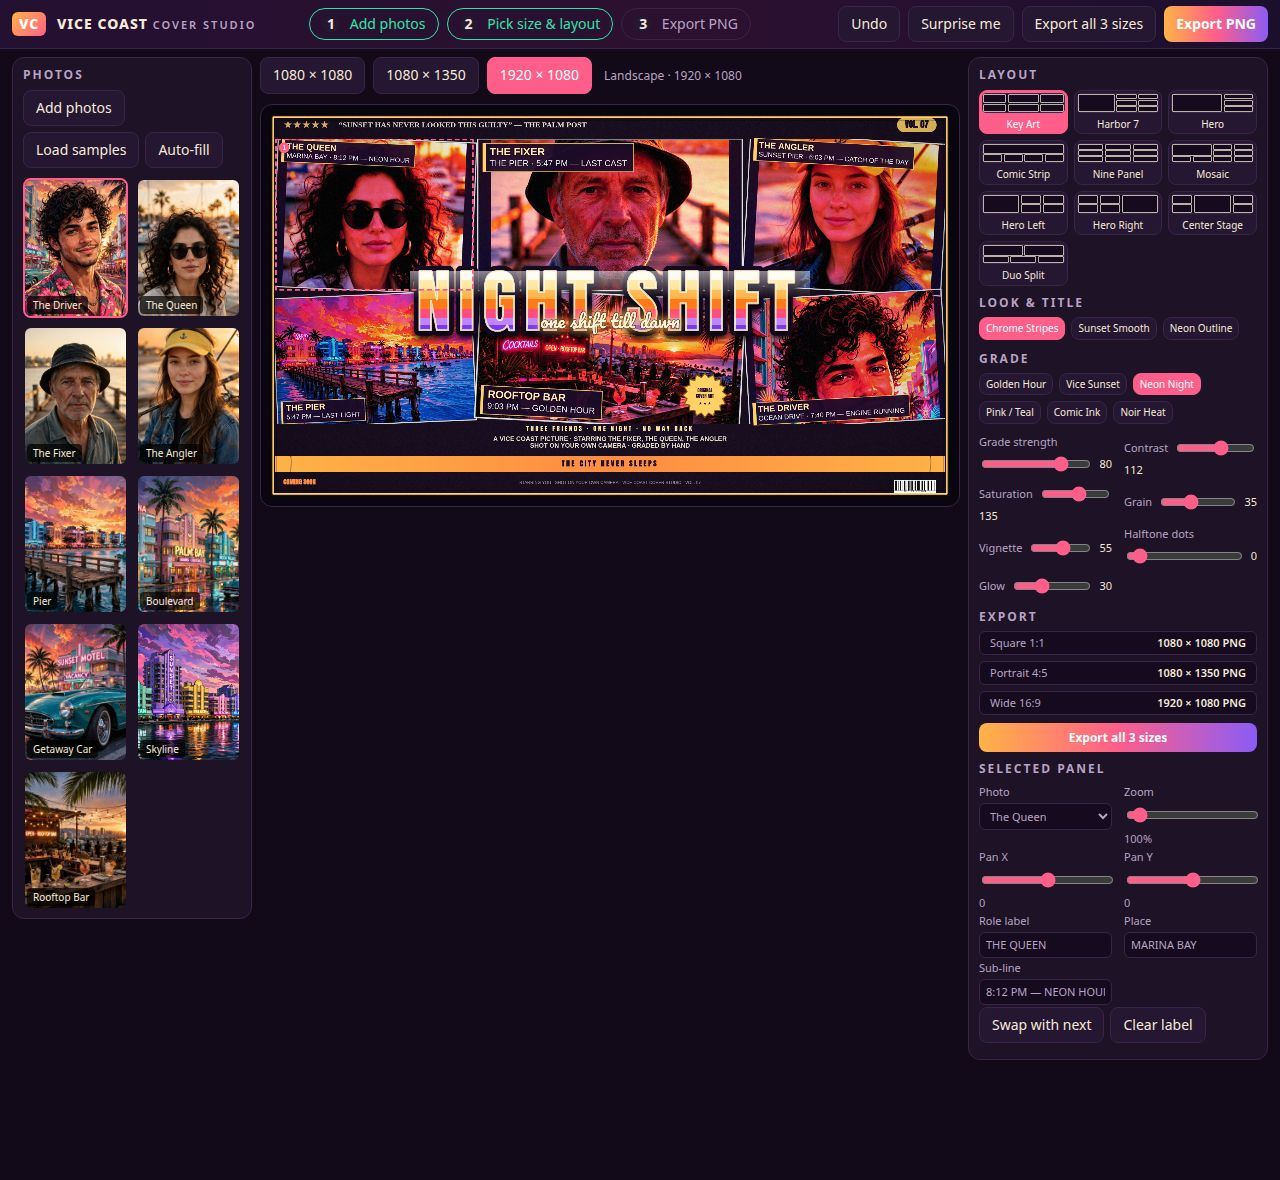
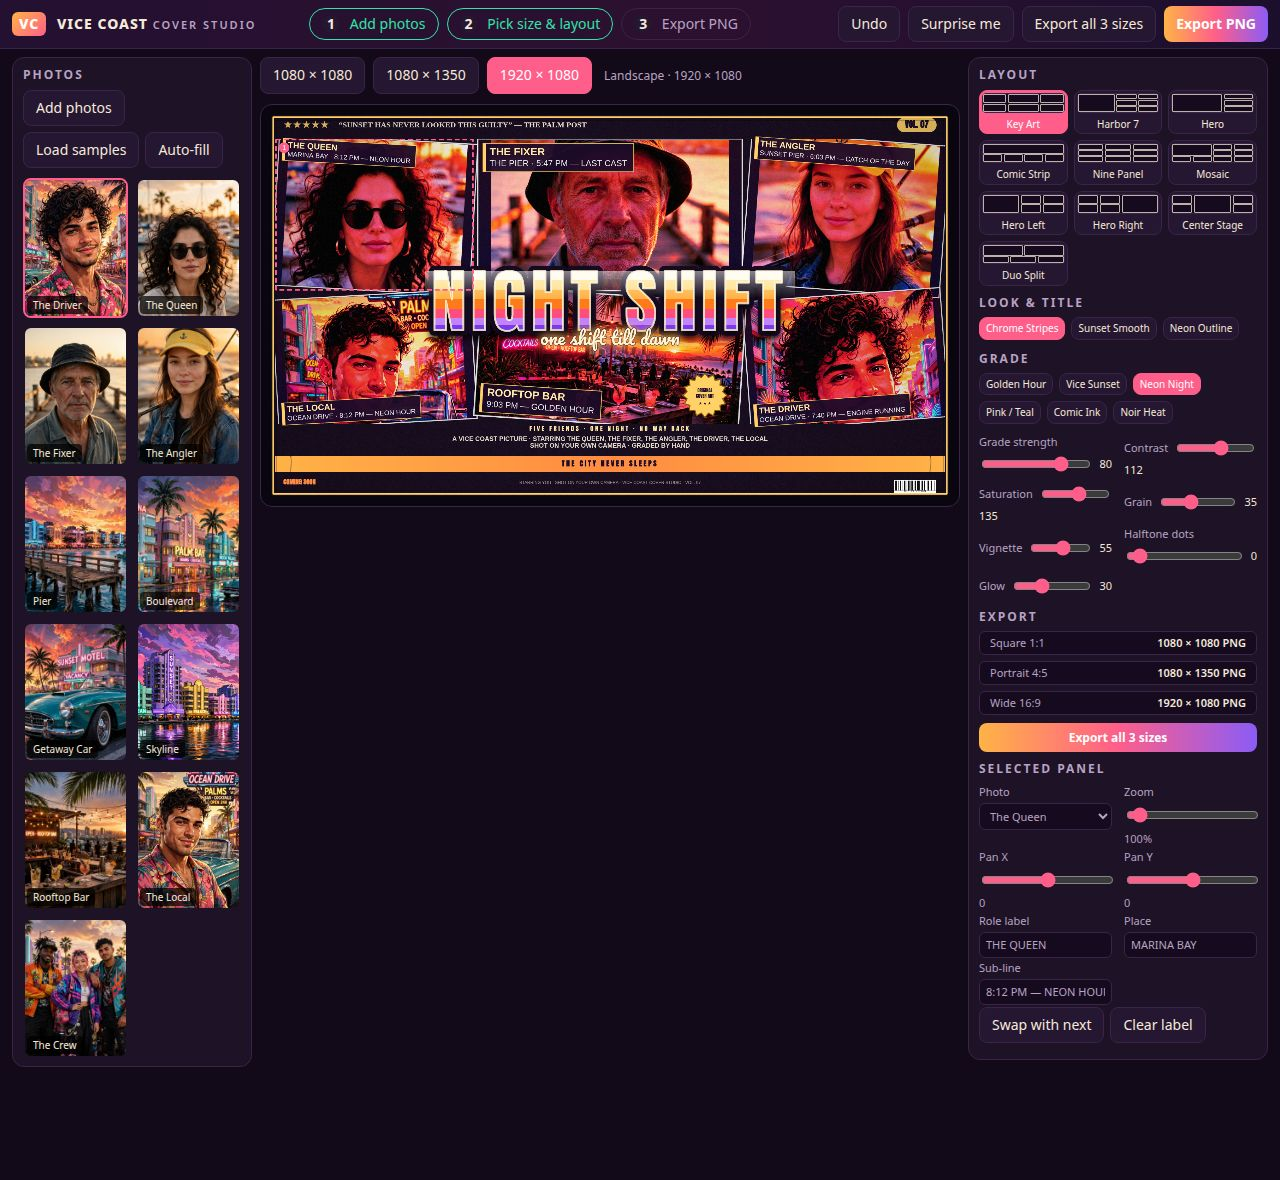
gta6-cover-art-01 v7: five cast portraits incl. The Local; magenta counterweight tint + wider tilt; tighter title tracking, script below headline

Changed region(s): [[0.1875, 0.122, 0.75, 0.3966], [0.0, 0.6407, 0.1875, 0.9153], [0.5625, 0.0915, 0.75, 0.1525]]

diff --git a/app/src/cover.js b/app/src/cover.js
@@ -257,7 +257,7 @@ function drawPhotoInto(ctx, img, x, y, w, h, zoom, panX, panY, faceY, faceAt) {
   ctx.drawImage(img, dx, dy, dw, dh);
 }
 
-function drawPanel(ctx, rect, photo, grade, sliders) {
+function drawPanel(ctx, rect, photo, grade, sliders, tint) {
   const { x, y, w, h } = rect;
   // v4: the photo fills the WHOLE panel. The caption lives in a compact
   // chip at a panel corner (drawChip, second pass) — not in a strip below
@@ -287,6 +287,22 @@ function drawPanel(ctx, rect, photo, grade, sliders) {
     ctx.fillRect(x, y, w, photoH);
     ctx.globalCompositeOperation = 'source-over';
     ctx.globalAlpha = 1;
+    // v7: per-panel counterweight tint — when tint is set, a magenta
+    // wash (clear at the top, 0.20 at the bottom, overlay blend, alpha
+    // scaled by grade strength s) so the grade varies panel to panel
+    // instead of reading as one flat golden-orange. Golden-hour stays
+    // dominant: the wash is a counterweight, not a second grade.
+    if (tint) {
+      const tgrad = ctx.createLinearGradient(x, y, x, y + h);
+      tgrad.addColorStop(0, 'rgba(255,46,136,0)');
+      tgrad.addColorStop(1, 'rgba(255,46,136,0.20)');
+      ctx.globalCompositeOperation = 'overlay';
+      ctx.globalAlpha = s;
+      ctx.fillStyle = tgrad;
+      ctx.fillRect(x, y, w, photoH);
+      ctx.globalCompositeOperation = 'source-over';
+      ctx.globalAlpha = 1;
+    }
   } else {
     const grad = ctx.createLinearGradient(x, y, x, y + photoH);
     grad.addColorStop(0, '#3b1d4e');
@@ -448,13 +464,14 @@ function drawChromeTitle(ctx, text, cx, baselineY, maxW, startPx, style, glow, t
   ctx.lineJoin = 'round';
   // Stretch with letter-spacing to the target width (r1's title has
   // wide tracking): a tall title would swallow the bottom row, so the
-  // span comes from tracking, not height. Capped at 0.12em so the
-  // letters never look disconnected. measureText accounts for the
+  // span comes from tracking, not height. Capped at 0.08em (v7: the
+  // old 0.12em cap read as wide, disconnected kerning) so the letters
+  // never look disconnected. measureText accounts for the
   // spacing in Chrome, so the re-measure below is the real width.
   let spacing = 0;
   if (targetW) {
     const w0 = ctx.measureText(text).width;
-    spacing = Math.max(0, Math.min(px * 0.12, (targetW - w0) / Math.max(1, text.length - 1)));
+    spacing = Math.max(0, Math.min(px * 0.08, (targetW - w0) / Math.max(1, text.length - 1)));
     try { ctx.letterSpacing = `${spacing}px`; } catch (e) { /* older canvas */ }
   }
   const tm = ctx.measureText(text);
@@ -633,7 +650,7 @@ export function drawCover(canvas, state) {
   // Full-width title (v5): sized to SPAN the poster like the leaders
   // (~70%+ of the width; ours spanned ~42–50%). Width-driven: start at
   // 0.18H and shrink to fit 0.72W, then stretch with letter-spacing to
-  // ~0.78W (inside drawChromeTitle, capped at 0.12em) — a tall title
+  // ~0.76W (inside drawChromeTitle, capped at 0.08em) — a tall title
   // would swallow the bottom row, so the width comes from tracking,
   // not height. The title sits ON the middle of the collage — its ink
   // top just above the seam between the rows (r1: "a huge central
@@ -652,11 +669,11 @@ export function drawCover(canvas, state) {
   const titleBaselineY = titleInkTop + titleAsc;
 
   const rects = panelRects(state);
-  // Panel tilt (v4): the hero stays straight as the anchor; the rest
-  // alternate ±2.4–3.2° so the collage reads as angled panels butting
+  // Panel tilt (v7): the hero stays straight as the anchor; the rest
+  // alternate ±3.2–4.2° so the collage reads as angled panels butting
   // together, not a flat grid. Render-time only — the layout rects are
   // unchanged (the editor's hit-testing still uses them).
-  const tilts = rects.map((r, i) => (r.hero ? 0 : ((i % 2 ? -1 : 1) * (2.4 + (i % 3) * 0.4)) * Math.PI / 180));
+  const tilts = rects.map((r, i) => (r.hero ? 0 : ((i % 2 ? -1 : 1) * (3.2 + (i % 3) * 0.5)) * Math.PI / 180));
   const panelMetas = rects.map((rect, i) => {
     const slot = state.panels[i] || {};
     const photo = slot.photoIndex != null ? state.photos[slot.photoIndex] : null;
@@ -680,7 +697,7 @@ export function drawCover(canvas, state) {
     ctx.translate(rect.x + rect.w / 2, rect.y + rect.h / 2);
     ctx.rotate(tilts[i]);
     ctx.translate(-(rect.x + rect.w / 2), -(rect.y + rect.h / 2));
-    drawPanel(ctx, rect, panelMetas[i].photo, grade, sliders);
+    drawPanel(ctx, rect, panelMetas[i].photo, grade, sliders, i % 2 === 1 && !rect.hero);
     ctx.restore();
   });
   ctx.restore();
@@ -724,19 +741,20 @@ export function drawCover(canvas, state) {
 
   // Chrome title, bursting OVER the middle of the collage (v5): the ink
   // top sits at the vertical middle of the panels area, straddling the
-  // seam between the rows, and the title spans ~78% of the width. (v4
+  // seam between the rows, and the title spans ~76% of the width. (v4
   // sat flush at the panels' bottom; the judge read that as "sitting
   // under the grid".) The baseline was measured up front, and the
   // caption chips were already placed clear of this band.
   const titleDrawn = drawChromeTitle(ctx, title, W / 2, titleBaselineY, W * 0.72,
-    titlePx, state.titleStyle || 'chrome', sliders.glow || 0, W * 0.78);
+    titlePx, state.titleStyle || 'chrome', sliders.glow || 0, W * 0.76);
   const titlePxDrawn = titleDrawn.px;
 
-  // Neon script subtitle overlapping the title's bottom edge (r1 style:
-  // "one last summer" sits ON the bottom of PALM FEVER). It paints over
-  // the centre-bottom panel — a scene by construction in every key-art
+  // Neon script subtitle sitting BELOW the headline with a clear gap
+  // (v7: the old overlap — 0.10em above the title's bottom edge — read
+  // as the script crowding the headline). It paints over the
+  // centre-bottom panel — a scene by construction in every key-art
   // preset, never a character — so it can never cover a face.
-  const subY = titleBaselineY + titleDrawn.desc - titlePxDrawn * 0.10;
+  const subY = titleBaselineY + titleDrawn.desc + titlePxDrawn * 0.14;
   if (c.subtitle) {
     const subPx = Math.round(titlePxDrawn * 0.27);
     ctx.font = `${subPx}px Pacifico, cursive`;

diff --git a/app/src/main.js b/app/src/main.js
@@ -15,6 +15,13 @@ const SAMPLES = [
   { file: 'scene-car.webp', name: 'Getaway Car', role: '', place: 'PARKING LOT 6', sub: '6:03 PM — GETAWAY READY' },
   { file: 'scene-skyline.webp', name: 'Skyline', role: '', place: 'SKYLINE ROW', sub: '9:03 PM — CITY NEVER SLEEPS' },
   { file: 'scene-rooftop.webp', name: 'Rooftop Bar', role: '', place: 'ROOFTOP BAR', sub: '9:03 PM — GOLDEN HOUR' },
+  // v7: two new cast portraits (Khase picked the closeup). The Local is a
+  // portrait closeup (face 0.42) — safe in any panel, the face-aware crop
+  // has vertical slack. The Crew (trio, faces 0.25) is library-only: its
+  // high faces fight the top-left caption chips in top-row panels and
+  // would land under the script subtitle in the centre-bottom panel.
+  { file: 'people-closeup.webp', name: 'The Local', role: 'THE LOCAL', place: 'OCEAN DRIVE', sub: '8:12 PM — NEON HOUR', face: 0.42, zoom: 90 },
+  { file: 'people-trio.webp', name: 'The Crew', role: 'THE CREW', place: 'OCEAN DRIVE', sub: '8:12 PM — GOLDEN HOUR', face: 0.25, zoom: 90 },
 ];
 
 const TITLES = ['GOLDEN SHORE', 'NIGHT SHIFT', 'VICE HEAT', 'GETAWAY', 'LAST LIGHT BAY', 'PALM ROW', 'TROPIC BAY', 'SUNSET DOCK'];
@@ -30,24 +37,24 @@ const TAGLINES = ['EVERY SUNSET HAS A PRICE', 'ONE COAST · NO RULES · COMING S
 const PRESETS = {
   A: { size: 'landscape', layout: 'key-art', grade: 'golden-hour', titleStyle: 'chrome',
     captions: { title: 'GOLDEN SHORE', subtitle: 'where the sun never sets', tagline: 'EVERY SUNSET HAS A PRICE',
-      ribbon: 'FOUR FRIENDS · ONE SHORE · NO WAY BACK', quote: '“SUNSET HAS NEVER LOOKED THIS GUILTY” — THE PALM POST',
-      volume: 'VOL. 06', badge: 'ORIGINAL COVER ART', stars: 5, cast: 'THE QUEEN, THE FIXER, THE ANGLER, THE DRIVER' },
-    panels: [2, 1, 3, 4, 8, 0] },
+      ribbon: 'FIVE FRIENDS · ONE SHORE · NO WAY BACK', quote: '“SUNSET HAS NEVER LOOKED THIS GUILTY” — THE PALM POST',
+      volume: 'VOL. 06', badge: 'ORIGINAL COVER ART', stars: 5, cast: 'THE QUEEN, THE FIXER, THE ANGLER, THE DRIVER, THE LOCAL' },
+    panels: [2, 1, 3, 9, 8, 0] },
   B: { size: 'landscape', layout: 'key-art', grade: 'neon-night', titleStyle: 'chrome',
     captions: { title: 'NIGHT SHIFT', subtitle: 'one shift till dawn', tagline: 'THE CITY NEVER SLEEPS',
-      ribbon: 'THREE FRIENDS · ONE NIGHT · NO WAY BACK', quote: '“SUNSET HAS NEVER LOOKED THIS GUILTY” — THE PALM POST',
-      volume: 'VOL. 07', badge: 'ORIGINAL COVER ART', stars: 5, cast: 'THE FIXER, THE QUEEN, THE ANGLER' },
-    panels: [1, 2, 3, 4, 8, 0] },
+      ribbon: 'FIVE FRIENDS · ONE NIGHT · NO WAY BACK', quote: '“SUNSET HAS NEVER LOOKED THIS GUILTY” — THE PALM POST',
+      volume: 'VOL. 07', badge: 'ORIGINAL COVER ART', stars: 5, cast: 'THE QUEEN, THE FIXER, THE ANGLER, THE DRIVER, THE LOCAL' },
+    panels: [1, 2, 3, 9, 8, 0] },
   C: { size: 'portrait', layout: 'key-art', grade: 'golden-hour', titleStyle: 'chrome',
     captions: { title: 'VICE HEAT', subtitle: 'chasing the last light', tagline: 'DRIVE FAST · SHINE BRIGHT',
-      ribbon: 'FOUR FRIENDS · ONE HEAT · NO WAY BACK', quote: '“SUNSET HAS NEVER LOOKED THIS GUILTY” — THE PALM POST',
-      volume: 'VOL. 08', badge: 'ORIGINAL COVER ART', stars: 5, cast: 'THE ANGLER, THE QUEEN, THE DRIVER' },
-    panels: [1, 3, 0, 5, 8, 4] },
+      ribbon: 'FIVE FRIENDS · ONE HEAT · NO WAY BACK', quote: '“SUNSET HAS NEVER LOOKED THIS GUILTY” — THE PALM POST',
+      volume: 'VOL. 08', badge: 'ORIGINAL COVER ART', stars: 5, cast: 'THE QUEEN, THE ANGLER, THE DRIVER, THE FIXER, THE LOCAL' },
+    panels: [1, 3, 0, 9, 8, 2] },
   D: { size: 'square', layout: 'key-art', grade: 'neon-night', titleStyle: 'chrome',
     captions: { title: 'GETAWAY', subtitle: 'one last job before dawn', tagline: 'ONE COAST · NO RULES · COMING SOON',
       ribbon: 'FIVE FRIENDS · ONE GETAWAY', quote: '“SUNSET HAS NEVER LOOKED THIS GUILTY” — THE PALM POST',
-      volume: 'VOL. 09', badge: 'ORIGINAL COVER ART', stars: 5, cast: 'THE QUEEN, THE FIXER, THE ANGLER, THE DRIVER' },
-    panels: [1, 6, 2, 4, 8, 3] },
+      volume: 'VOL. 09', badge: 'ORIGINAL COVER ART', stars: 5, cast: 'THE QUEEN, THE FIXER, THE ANGLER, THE DRIVER, THE LOCAL' },
+    panels: [1, 9, 2, 0, 8, 3] },
 };
 
 const $ = (id) => document.getElementById(id);
